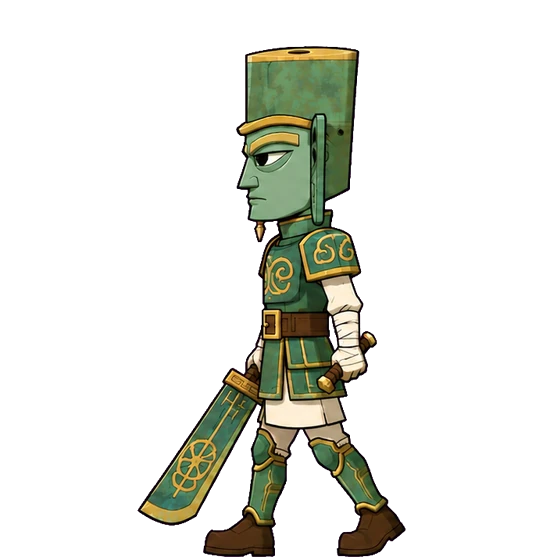
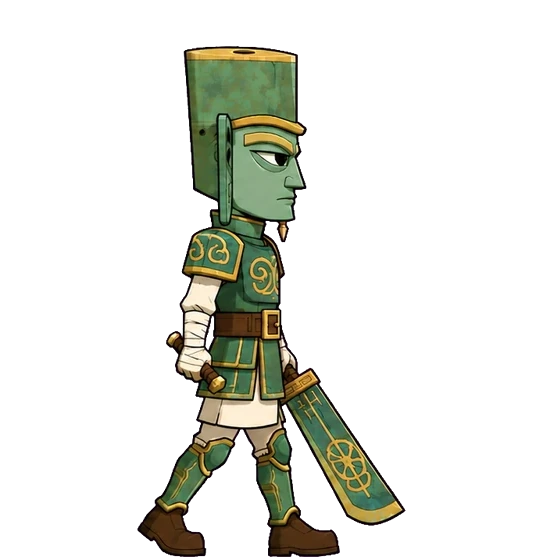
fix(art): 青铜剑行走四帧画反了，水平镜像回来并同步 anchorX
walk-sword-0..3.webp 是唯一面朝左的行走序列 —— 其余 10 把武器与空手全部朝右，
所以持剑走路时角色是「倒着走」的。

判据是人眼，不是脚本：截四张产物图看鼻子朝哪边，sword 朝左、short/axe 朝右。
先试过「alpha 列投影相关」，修正后仍把 axe / bell 判成反向 ——
斧头与铃一侧体积太大，投影会被轮廓主导，这个方法只能当辅助。

改动：
- 四张图水平镜像（画布 543×560 不变，镜像不改尺寸）。
- WEAPON_CLIP.sword.walk.anchorX 换成 1 - 旧值：
  [0.535, 0.565, 0.5281, 0.5682] → [0.465, 0.435, 0.4719, 0.4318]。
  跨度仍是 0.0401（≈7.5px），不引入新的横跳。
- 	ools/slice_weapon_walk.py 头部注明：本脚本不做朝向判定，重跑会用源图盖掉这个修正。

只动 walk：jump / attack 逐张看过，方向是对的。

验证：check-inline 通过（148186 字符）；
ode --check js/anim-data.js 通过；
三个 selftest 全 0 失败。版本号 20261026-e → f。

Changed region(s): [[0.2357, 0.0607, 0.7661, 1.0]]

diff --git a/index.html b/index.html
@@ -20,10 +20,10 @@
 <title>双刃战士 · 纵目</title>
 <meta name="description" content="三星堆纵目祭司主题横版双人清版动作游戏，零依赖，双击即玩。">
 <meta name="theme-color" content="#1a140e">
-<link rel="icon" href="assets/icon/favicon.ico?v=20261026e" sizes="any">
-<link rel="icon" type="image/png" sizes="32x32" href="assets/icon/icon-32.png?v=20261026e">
-<link rel="icon" type="image/png" sizes="16x16" href="assets/icon/icon-16.png?v=20261026e">
-<link rel="apple-touch-icon" sizes="180x180" href="assets/icon/apple-touch-icon.png?v=20261026e">
+<link rel="icon" href="assets/icon/favicon.ico?v=20261026f" sizes="any">
+<link rel="icon" type="image/png" sizes="32x32" href="assets/icon/icon-32.png?v=20261026f">
+<link rel="icon" type="image/png" sizes="16x16" href="assets/icon/icon-16.png?v=20261026f">
+<link rel="apple-touch-icon" sizes="180x180" href="assets/icon/apple-touch-icon.png?v=20261026f">
 <style>
   *{margin:0;padding:0;box-sizing:border-box}
   html,body{width:100%;height:100%;overflow:hidden;background:#05060a;
@@ -480,7 +480,10 @@
      而且刷新几次都改不掉 —— 缓存不认文件名。
      这个项目没有构建步骤（禁 npm / CDN，file:// 要能双击跑），
      所以版本号靠手改；改 js/ 就 bump 一次。
-     当前版本：20261026-e
+     当前版本：20261026-f
+       f = 青铜剑行走朝向：`walk-sword-0..3.webp` 原本画成面朝左（其余 10 把与空手都朝右），
+           已水平镜像回来，`WEAPON_CLIP.sword.walk.anchorX` 同步取 `1 - 旧值`
+     上一次：20261026-e
        e = 末阵施压 + 旋风斩击退：器心活着就一直补小怪，BOSS 起手/冷却略快、受击僵直略短，
            旋风斩的单次击退从 620 降到 50（原来第一下就把人推出判定圈，后十下全空）
      上一次：20261026-d
@@ -496,18 +499,18 @@
        j = BGM 换成 assets/audio/bgm-main.mp3；i = 模式选择页打开即高亮当前项。
      —— 两边曾各自把版本号提到 e，同号两个版本会让缓存分不清，合并后统一顺延；
         这次也撞在一起（本地 k、上游 l），取两者之外的 m。 -->
-<script src="js/assets.js?v=20261026e"></script>
-<script src="js/anim-data.js?v=20261026e"></script>
-<script src="js/background.js?v=20261026e"></script>
-<script src="js/char-rig.js?v=20261026e"></script>
-<script src="js/enemies-assets.js?v=20261026e"></script>
-<script src="js/fx.js?v=20261026e"></script>
-<script src="js/guide.js?v=20261026e"></script>
-<script src="js/rumble.js?v=20261026e"></script>
-<script src="js/touch.js?v=20261026e"></script>
-<script src="js/ui-shell.js?v=20261026e"></script>
-<script src="js/audio.js?v=20261026e"></script>
-<script src="js/intro-video.js?v=20261026e"></script>
+<script src="js/assets.js?v=20261026f"></script>
+<script src="js/anim-data.js?v=20261026f"></script>
+<script src="js/background.js?v=20261026f"></script>
+<script src="js/char-rig.js?v=20261026f"></script>
+<script src="js/enemies-assets.js?v=20261026f"></script>
+<script src="js/fx.js?v=20261026f"></script>
+<script src="js/guide.js?v=20261026f"></script>
+<script src="js/rumble.js?v=20261026f"></script>
+<script src="js/touch.js?v=20261026f"></script>
+<script src="js/ui-shell.js?v=20261026f"></script>
+<script src="js/audio.js?v=20261026f"></script>
+<script src="js/intro-video.js?v=20261026f"></script>
 <script>
 "use strict";
 /* =====================================================================

diff --git a/js/anim-data.js b/js/anim-data.js
@@ -154,8 +154,13 @@ window.WEAPON_CLIP = {
               files: ["assets/anim/pickup-dagger.webp"] }
   },
   sword:   {
+    /* ⚠ walk 的 4 张源图原本画成了面朝左，与其余 10 把（含空手）相反 ——
+       2026-10-30 已把写进 assets/ 的这 4 张水平镜像回来，与此同步把
+       anchorX 换成 1 - 旧值（镜像不改画布尺寸，只改身体轴的归一化位置）。
+       旧值 [0.535, 0.565, 0.5281, 0.5682] → 新值 [0.465, 0.435, 0.4719, 0.4318]。
+       只动 walk：jump / attack 当场看过，方向是对的。 */
     walk:    { frames: 4, loop: true, fps: 10, w: 543, h: 560, scaleFix: 0.761,
-              footY: [1, 1, 1, 1], anchorX: [0.535, 0.565, 0.5281, 0.5682],
+              footY: [1, 1, 1, 1], anchorX: [0.465, 0.435, 0.4719, 0.4318],
               files: ["assets/anim/walk-sword-0.webp", "assets/anim/walk-sword-1.webp", "assets/anim/walk-sword-2.webp", "assets/anim/walk-sword-3.webp"] },
     jump:    { frames: 2, loop: false, fps: 0, w: 543, h: 560, scaleFix: 0.761,
               footY: 1.0, anchorX: [0.6172, 0.6859],

diff --git a/tools/slice_weapon_walk.py b/tools/slice_weapon_walk.py
@@ -11,6 +11,13 @@
   一走就空手」——连续性断在最常发生的那一帧。程序化浮沉只能遮一时，
   走路必须有逐帧素材，所以单开这一条数据通道。
 
+⚠ 朝向：本脚本**不做朝向判定**，条带画成什么方向就切什么方向。
+  2026-10-30 发现 sword 那一批被画成了面朝左（其余 10 把与空手都是朝右），
+  产物 `walk-sword-0..3.webp` 已手工水平镜像回去，`WEAPON_CLIP.sword.walk.anchorX`
+  同步换成 `1 - 旧值`。**重跑本脚本会用源图盖掉这个修正** —— 重跑前先确认源条带朝向：
+  看鼻子朝哪边（截一张产物图人眼判即可）。别用「剪影列投影相关」自动判：
+  斧、铃这类一侧体积很大的武器会误报（已实测 axe/bell 在修正后仍被判反向）。
+
 统一画布：与出招序列同一套做法（4 格并集外扩 4px、底边贴齐、水平居中、
 等比缩到长边 ≤ 560）。scaleFix 一把武器一个（4 帧共用），anchorX 逐帧一个。
 
